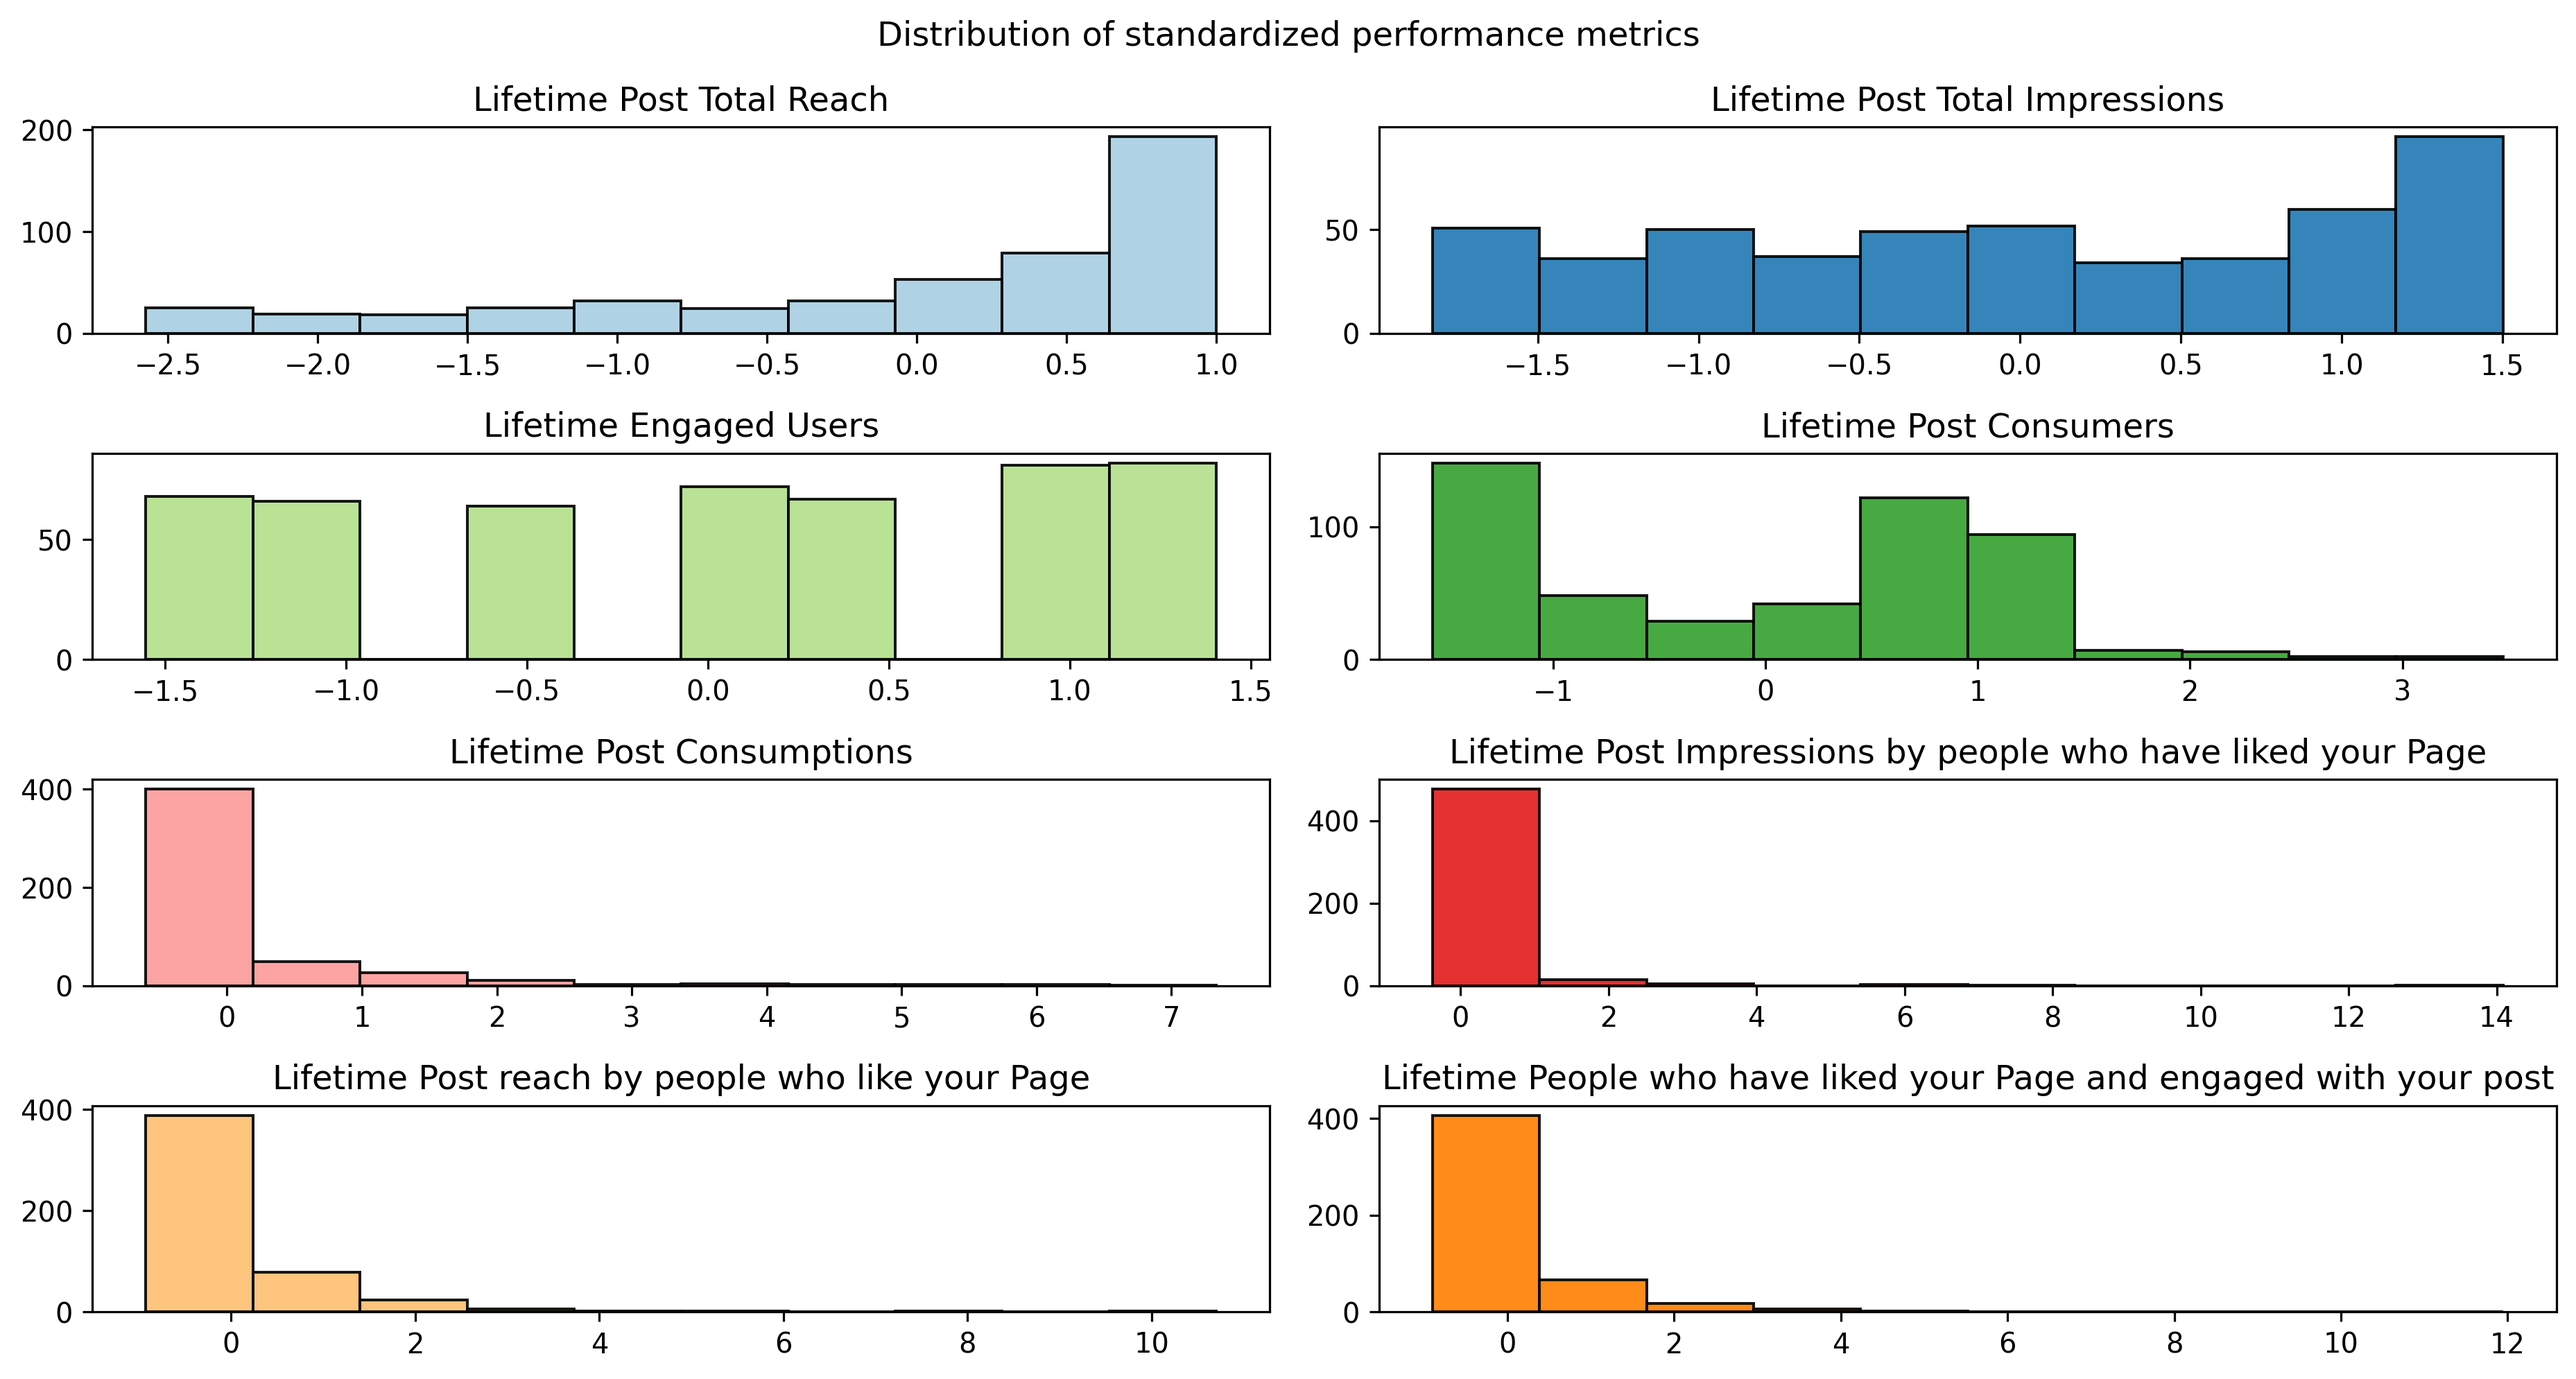
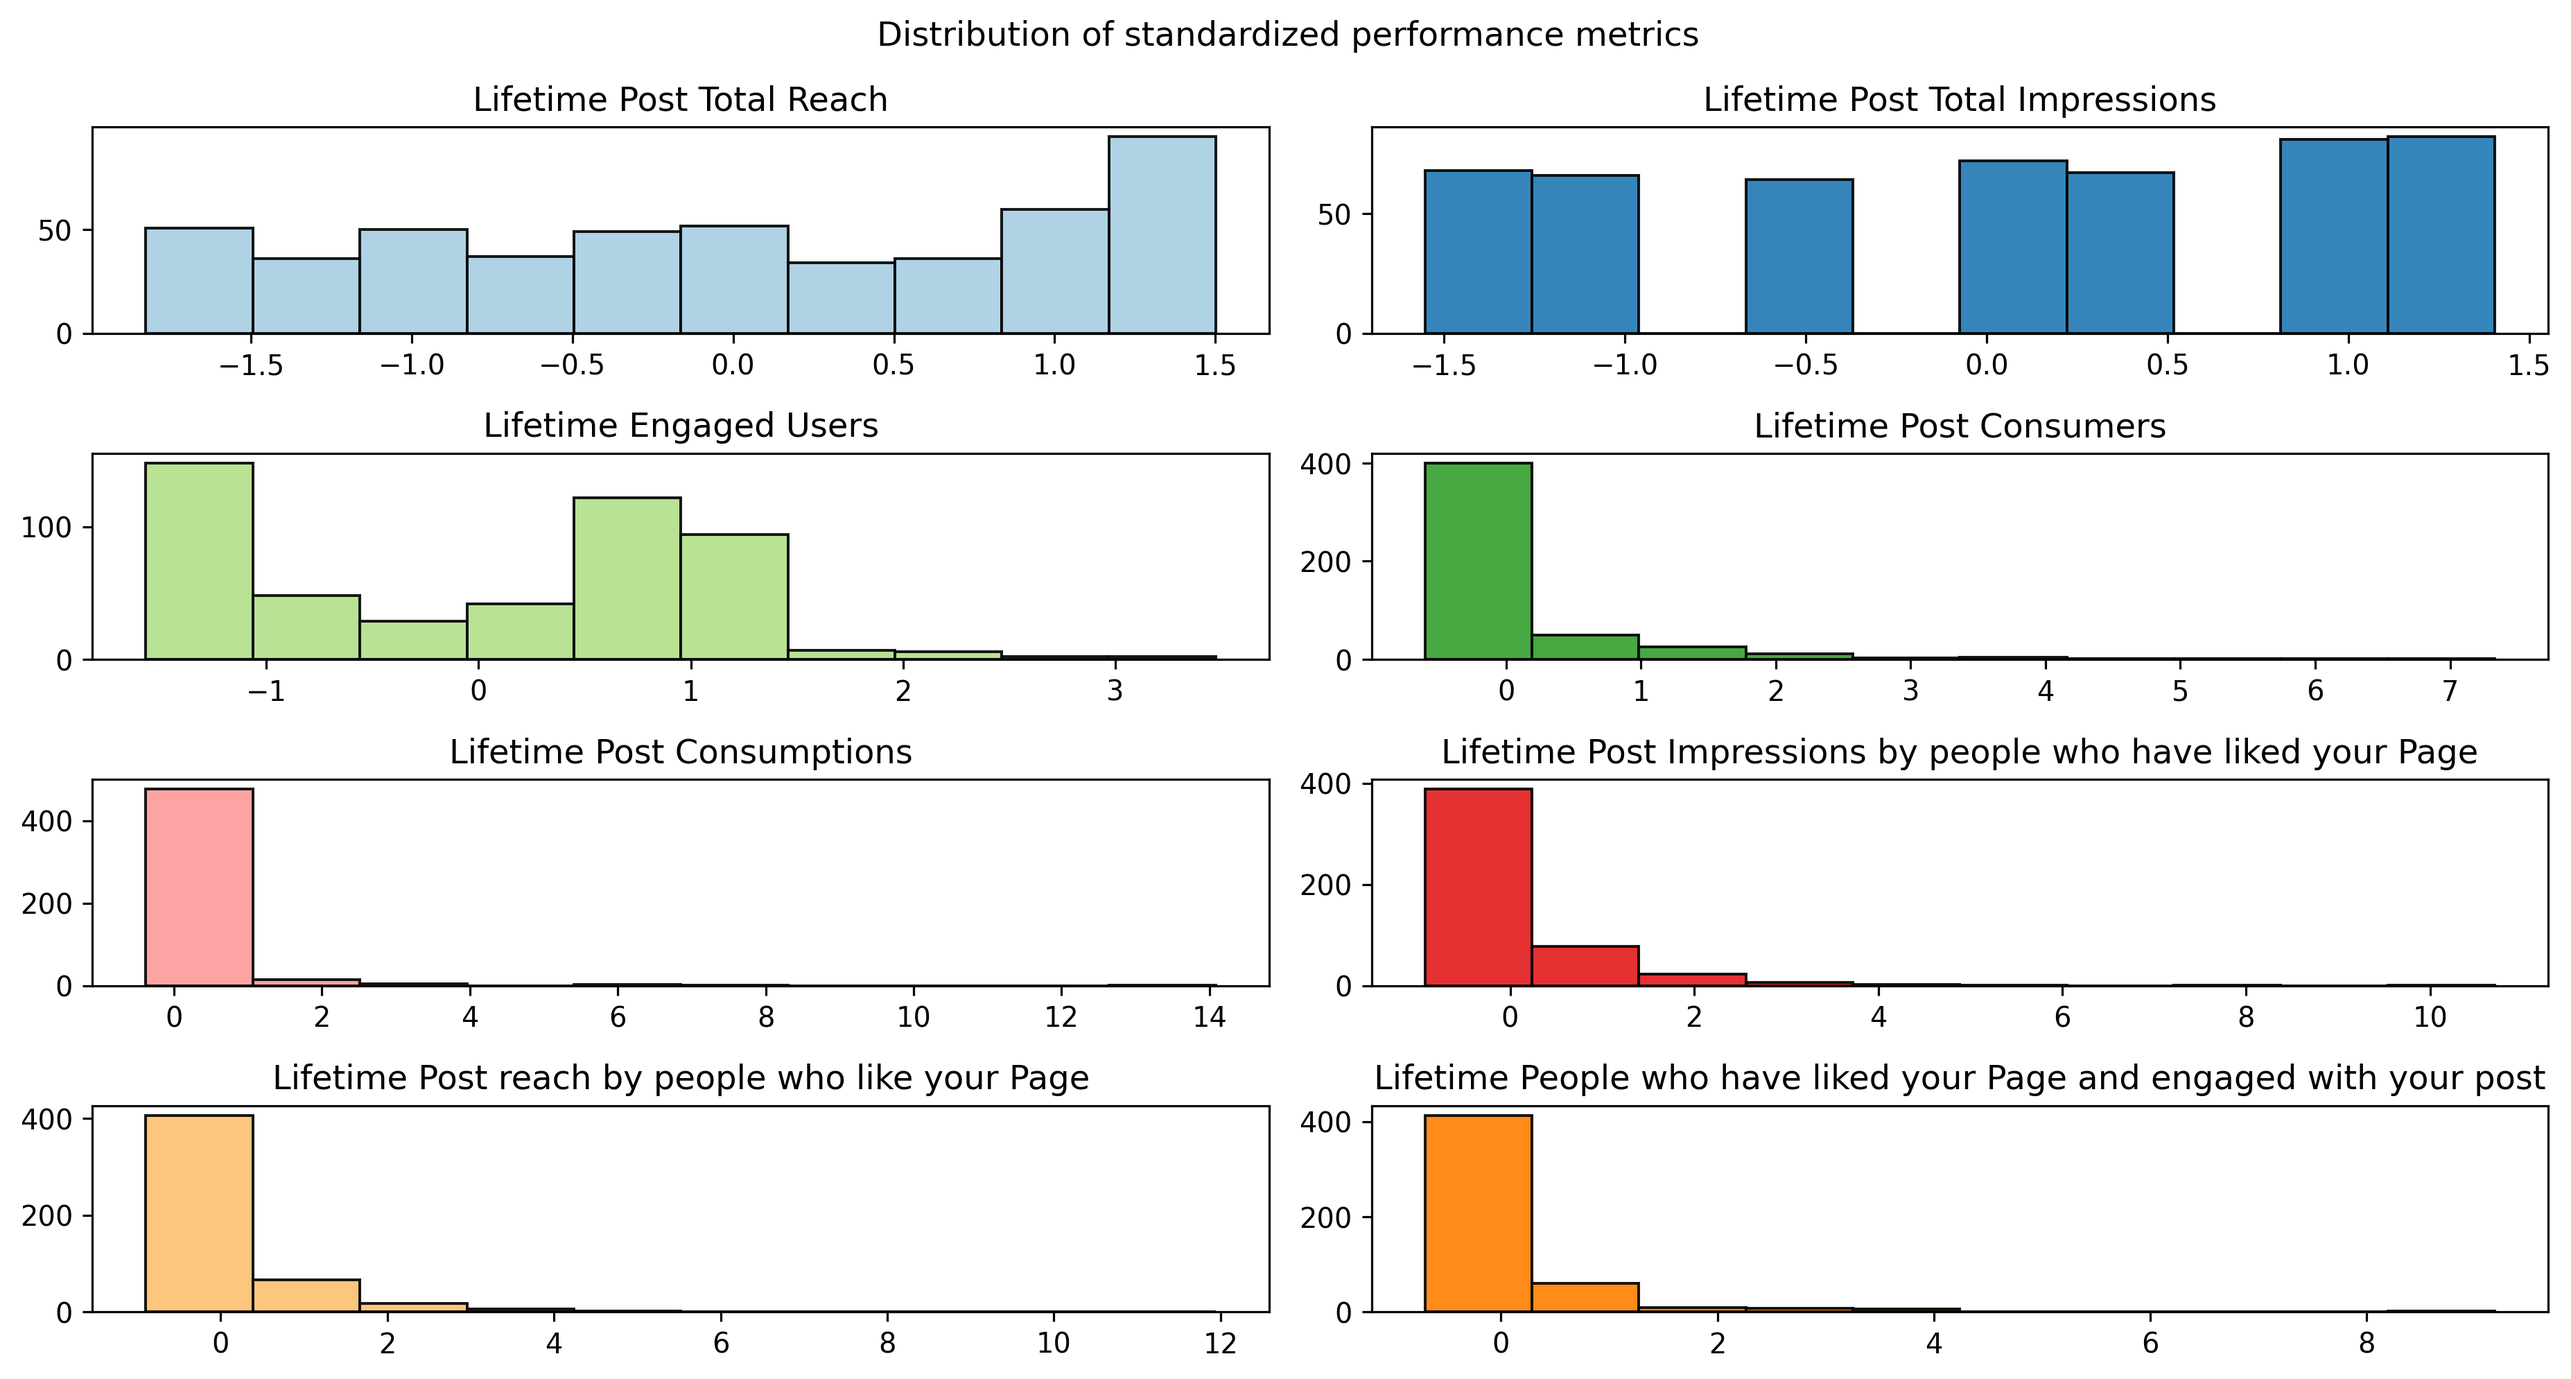
Now using 'DataPreparation' class

diff --git a/plot_performance_metrics.py b/plot_performance_metrics.py
@@ -5,11 +5,7 @@ from pathlib import Path
 import pandas as pd
 # matplotlib
 import matplotlib.pyplot as plt
-# Scikit-Learn preprocessing classes
-from sklearn.preprocessing import StandardScaler, OneHotEncoder
-from sklearn.pipeline import Pipeline
-from sklearn.compose import ColumnTransformer
-from sklearn.impute import SimpleImputer
+from data_preparation import DataPreparation
 
 home = os.environ['HOME']
 home_dir = Path(home)
@@ -17,43 +13,15 @@ work_dir = home_dir / 'Programming/Python/machine-learning-exercises/facebook-me
 data_file = work_dir / 'data/dataset_Facebook.csv'
 
 # data preparation
-fb_df = pd.read_csv(data_file, sep=';', na_values='NaN')
-
-# columns used for analysis
-selected_columns = list(fb_df.columns[0:15])
-# columns used for modeling
-input_columns = selected_columns[0:7]
-# performance metric columns
-output_columns = selected_columns[7:15]
-
-# columns by data type
-numeric_cols = [input_columns[0]] + input_columns[3:6] + output_columns
-cat_onehot_cols = input_columns[1:3] + [input_columns[6]]
-
-# substitution of NaN (just the one in 'Paid') and standardization of data
-num_pipeline = Pipeline([
-    ('impute', SimpleImputer(strategy='most_frequent', missing_values=pd.NA)),
-    ('std_scaler', StandardScaler()),
-])
-
-full_pipeline = ColumnTransformer([
-    # 6 columns for categorical data
-    ('cat_onehot', OneHotEncoder(sparse=False, drop='first'), cat_onehot_cols),
-    # 12 columns for numerical data
-    ('num', num_pipeline, numeric_cols),
-])
-
-# application for feature transformation pipeline
-input_fb_df = fb_df[selected_columns].copy()
-# input_fb_df.dropna(inplace=True)
-fb_na_tr = full_pipeline.fit_transform(input_fb_df)
+data_prep = DataPreparation(data_file)
+fb_df_tr = data_prep.transform()
 
 # plots
-fb_df_tr = pd.DataFrame(fb_na_tr[:, 7:15], columns=output_columns)
+fb_df_tr = pd.DataFrame(fb_df_tr[:, 7:15], columns=data_prep.output_columns)
 fig, axes = plt.subplots(nrows=4, ncols=2, figsize=(13, 7))
 # using 'Paired' colormap
 cmap = plt.cm.Paired.colors
-for ax, clm, col in zip(axes.flat, output_columns, cmap):
+for ax, clm, col in zip(axes.flat, data_prep.output_columns, cmap):
     ax.hist(fb_df_tr.loc[:, clm], edgecolor='k', alpha=0.9, color=col)
     ax.set_title(clm)
 plt.suptitle('Distribution of standardized performance metrics')
